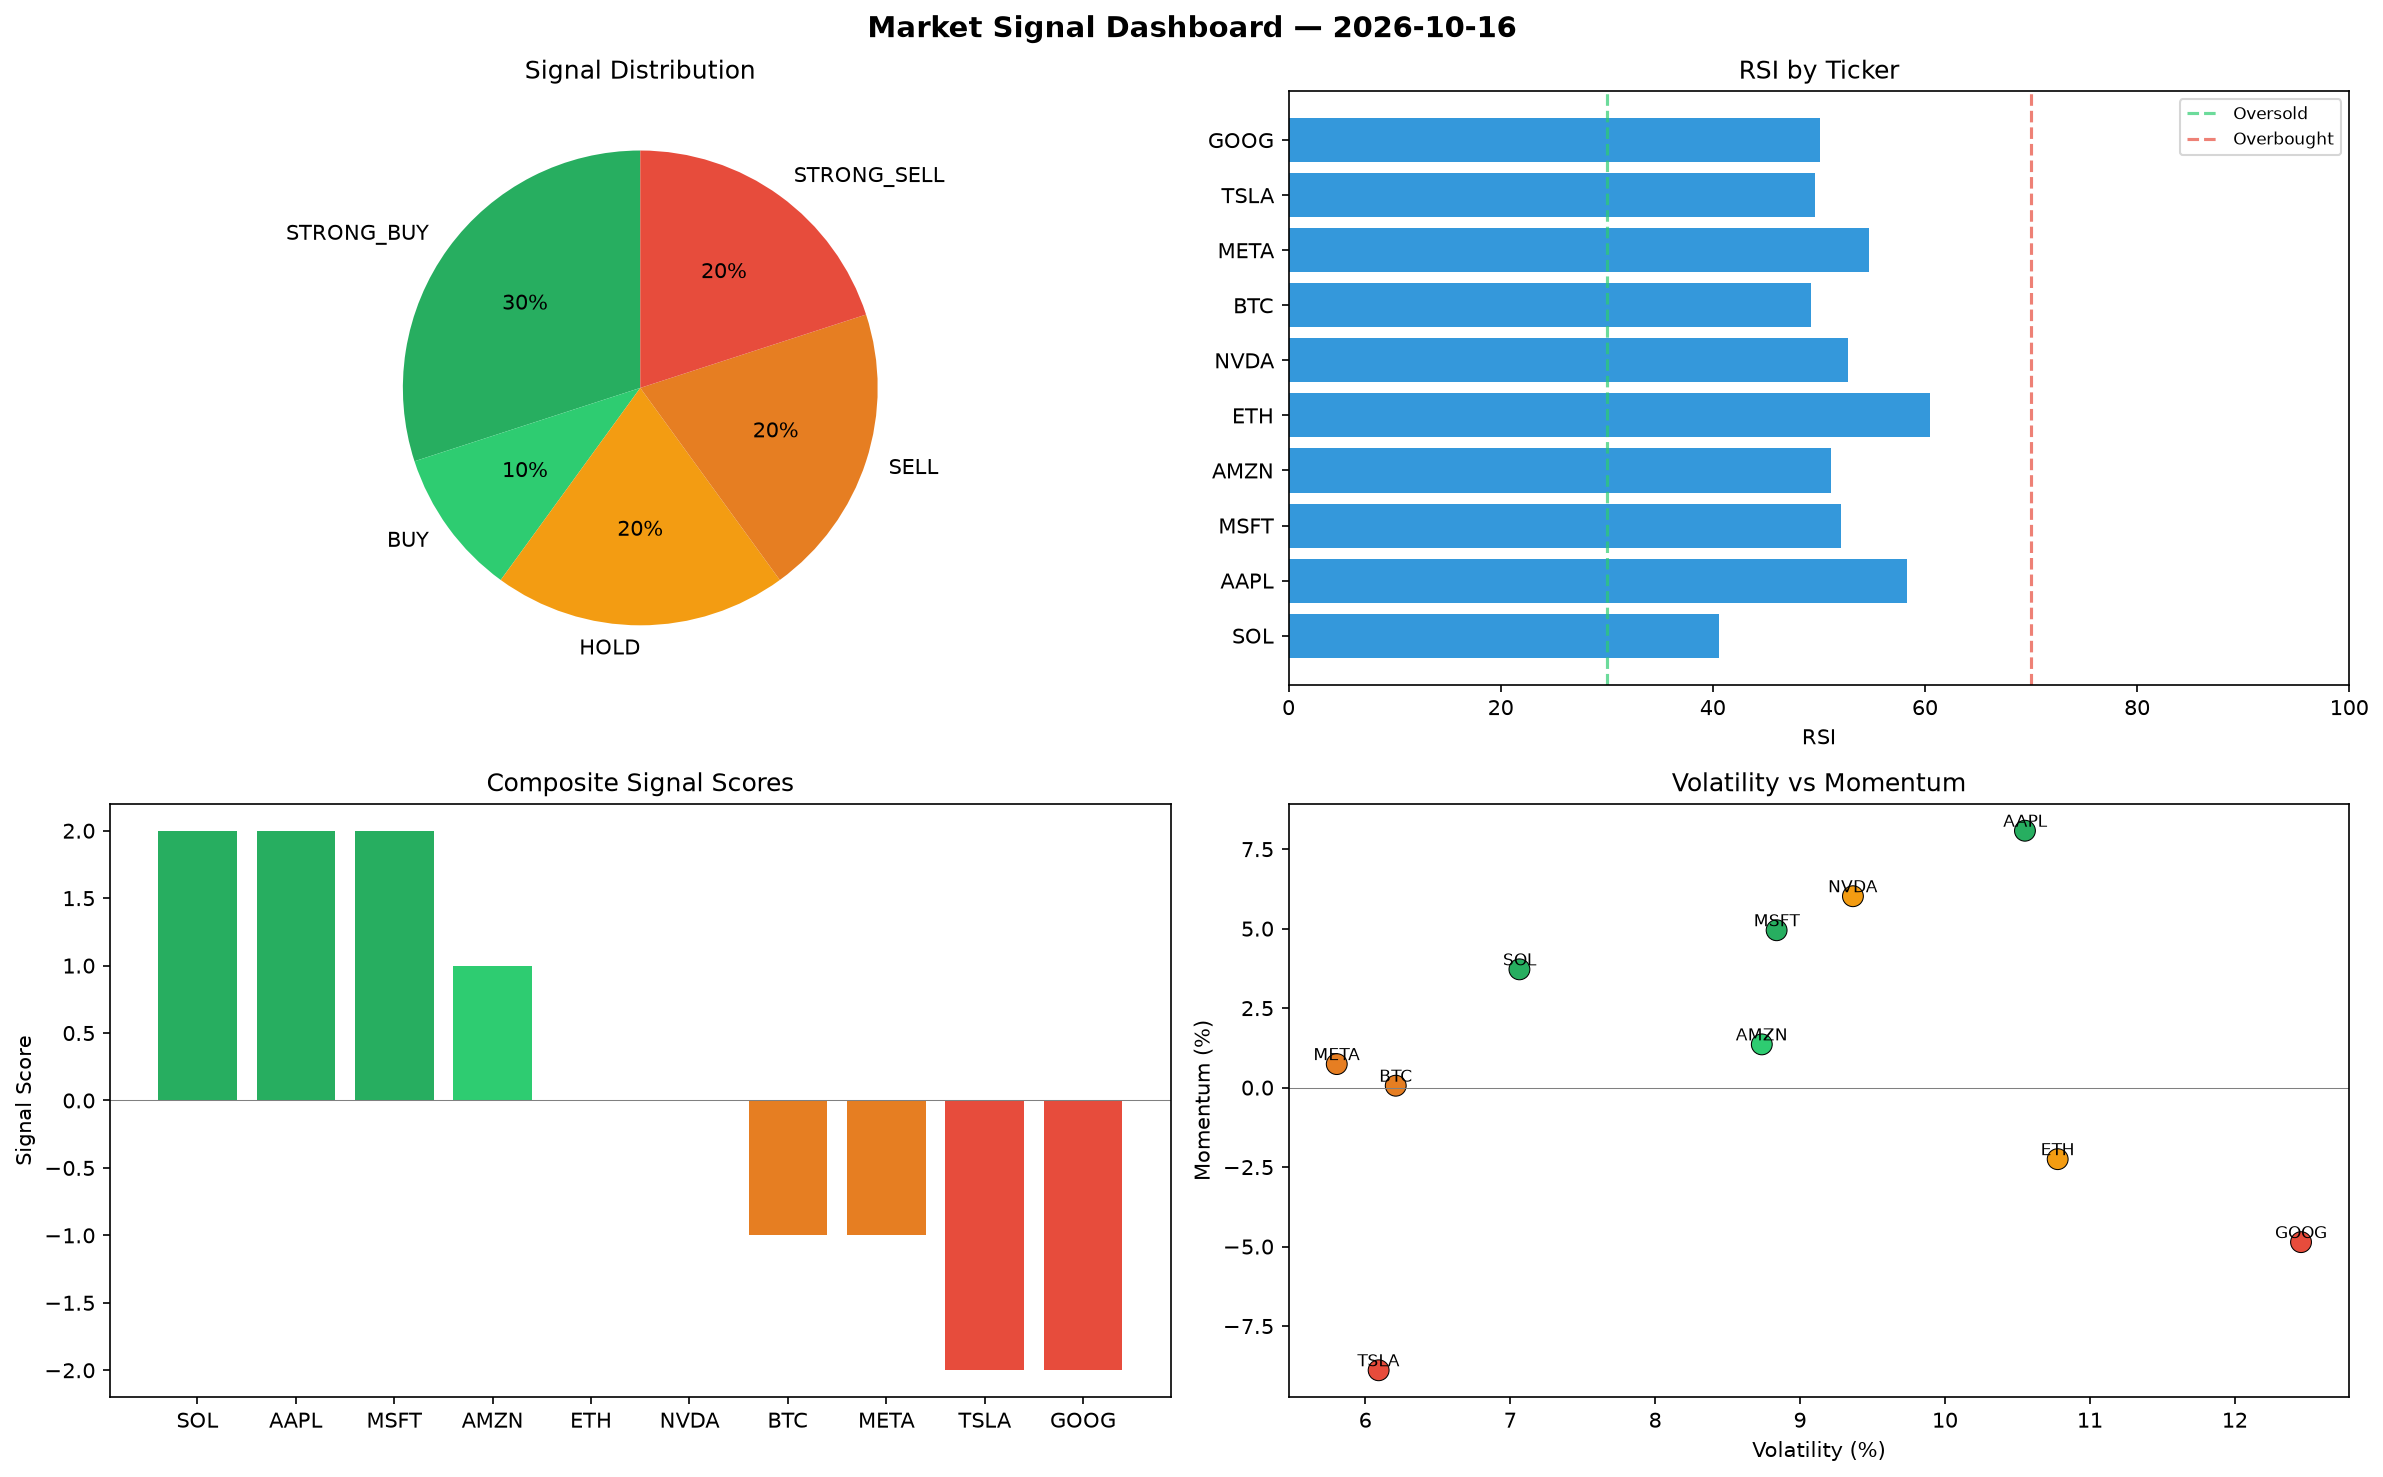
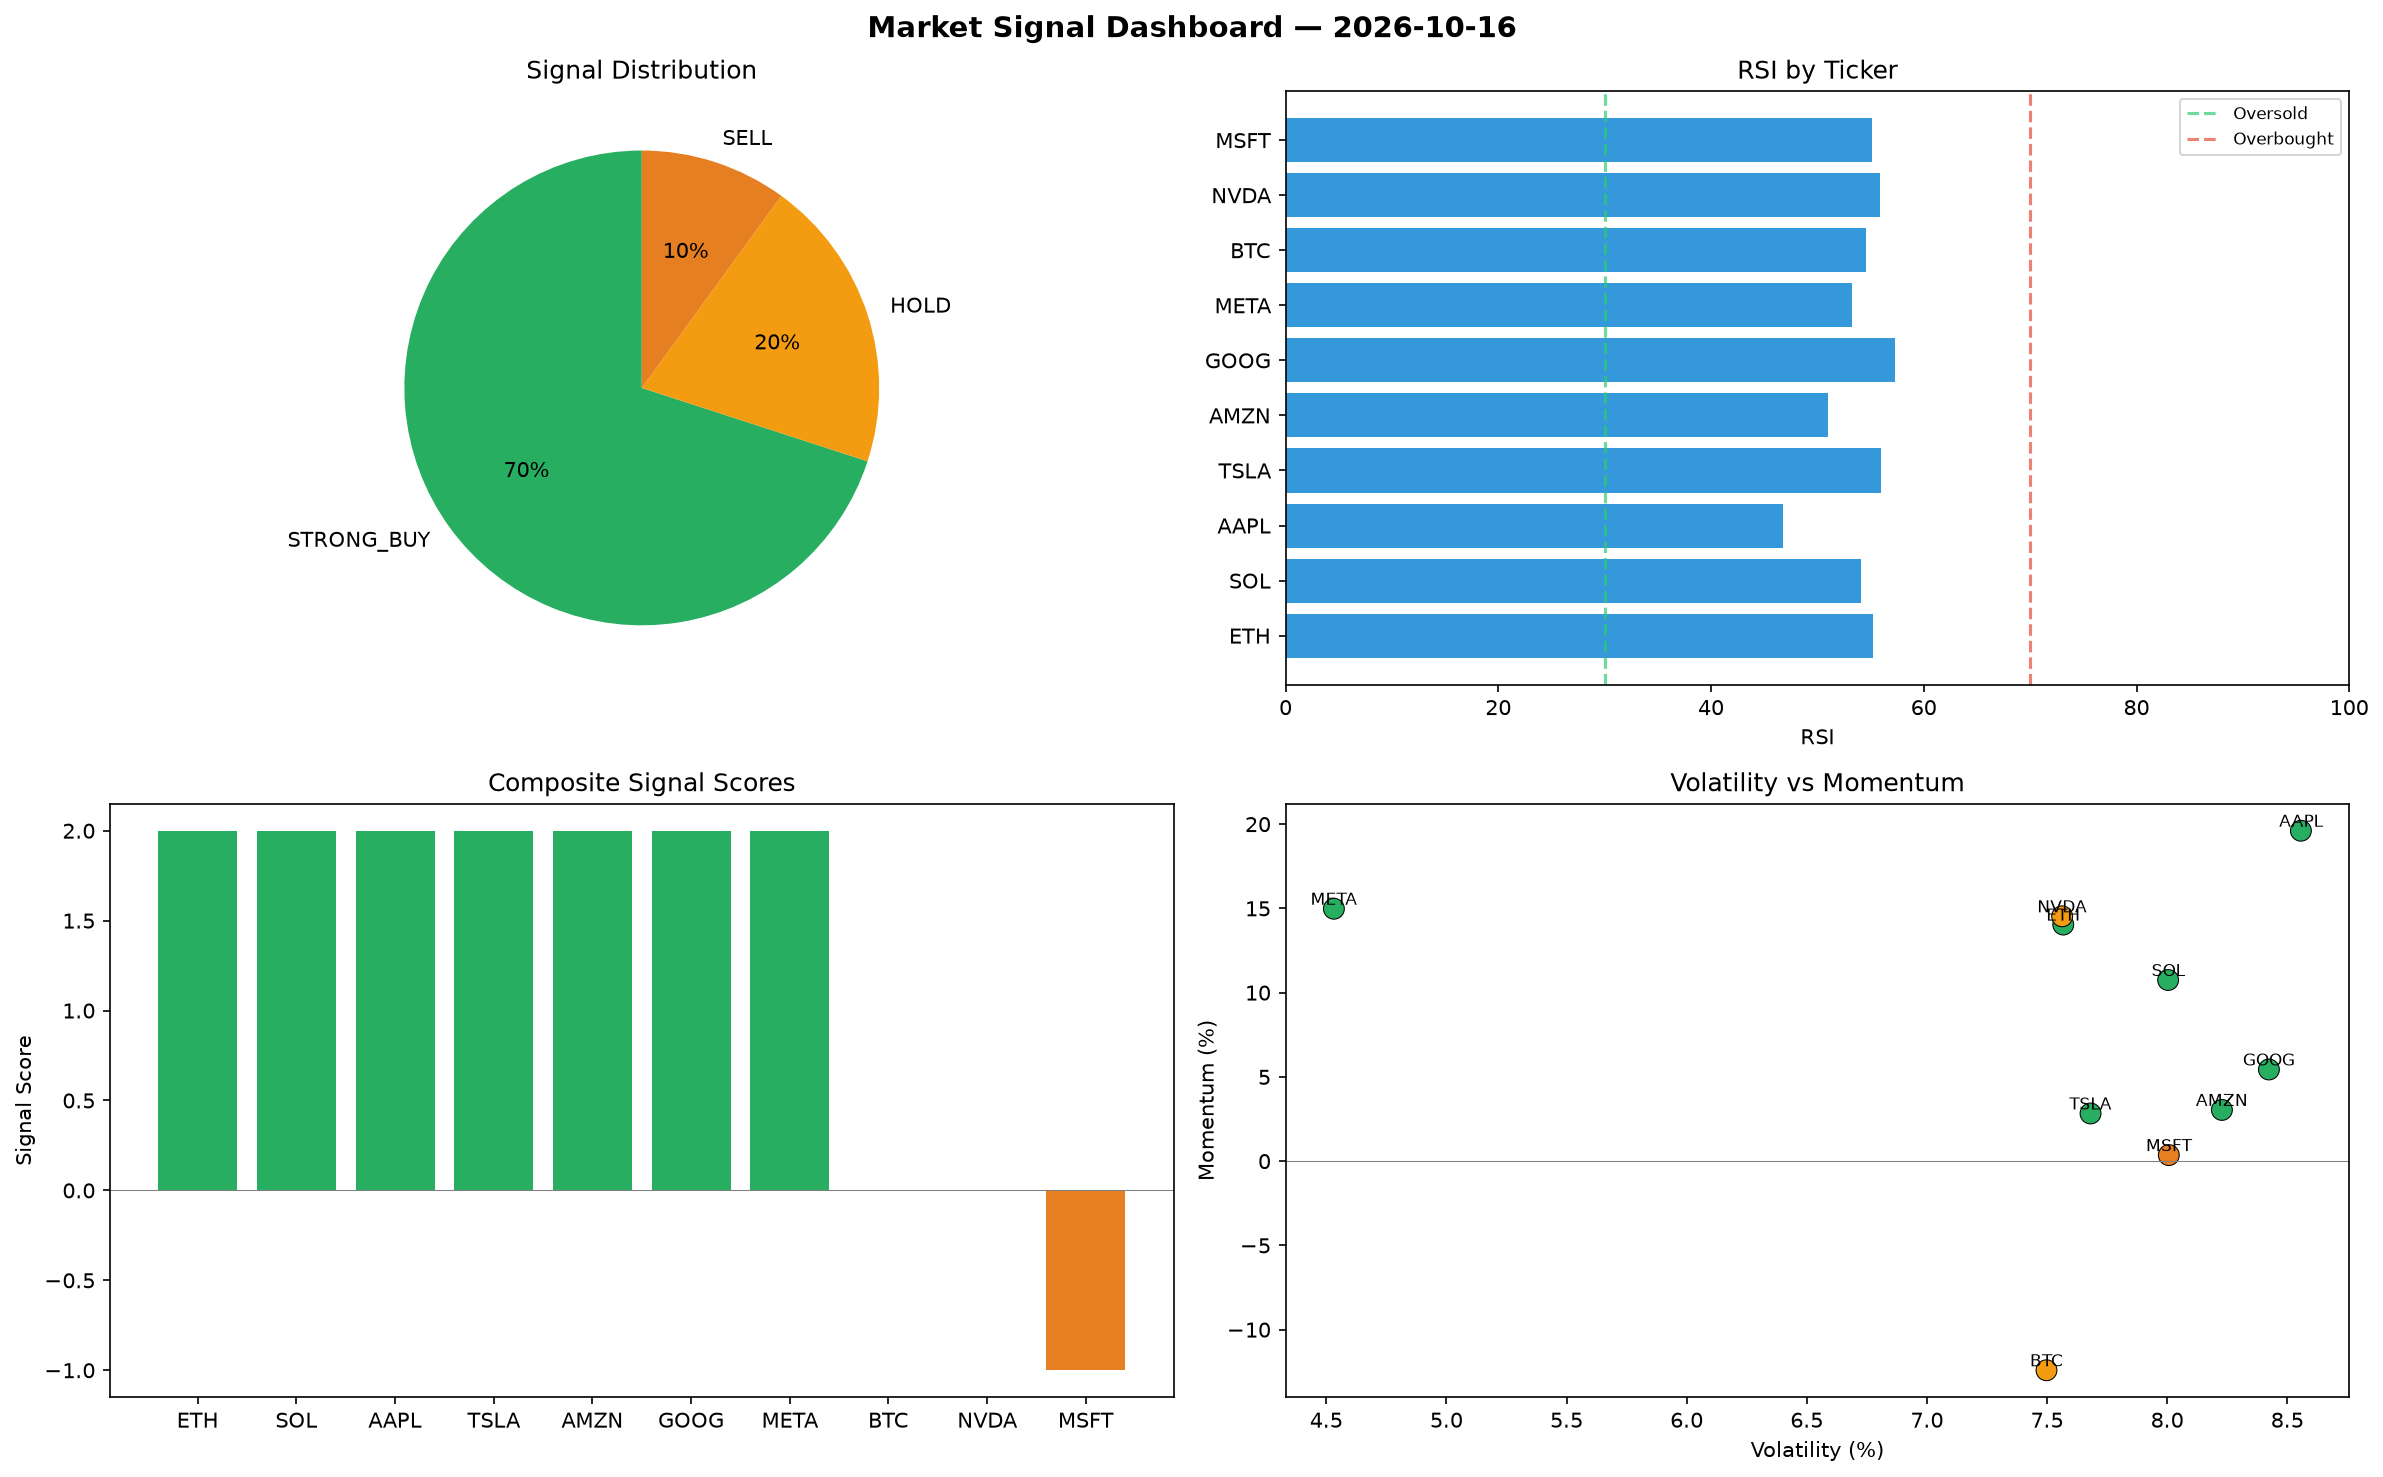
automated-bots: market signals 2026-10-16T13:23

diff --git a/logs/2026-10-16.md b/logs/2026-10-16.md
@@ -1,6 +1,6 @@
 # Market Signal Report — 2026-10-16
 
-**Run ID:** `b9645f4eec` | **Buy:** 4 | **Sell:** 4 | **Hold:** 2
+**Run ID:** `a1b096e7e0` | **Buy:** 7 | **Sell:** 1 | **Hold:** 2
 
 ![Dashboard](2026-10-16_dashboard.png)
 
@@ -8,28 +8,28 @@
 
 | Ticker | Price | Signal | Score | RSI | Momentum | Confidence |
 |--------|-------|--------|-------|-----|----------|------------|
-| SOL | $2485.02 | **STRONG_BUY** | 2 | 40.6 | 0.0372 | 0.5 |
-| AAPL | $3373.64 | **STRONG_BUY** | 2 | 58.35 | 0.0808 | 0.5 |
-| MSFT | $4673.43 | **STRONG_BUY** | 2 | 52.09 | 0.0495 | 0.5 |
-| AMZN | $688.15 | **BUY** | 1 | 51.13 | 0.0136 | 0.25 |
-| ETH | $3746.75 | **HOLD** | 0 | 60.47 | -0.0225 | 0.0 |
-| NVDA | $556.86 | **HOLD** | 0 | 52.77 | 0.0602 | 0.0 |
-| BTC | $2819.91 | **SELL** | -1 | 49.29 | 0.0006 | 0.25 |
-| META | $843.25 | **SELL** | -1 | 54.73 | 0.0074 | 0.25 |
-| TSLA | $3608.6 | **STRONG_SELL** | -2 | 49.63 | -0.0889 | 0.5 |
-| GOOG | $2615.48 | **STRONG_SELL** | -2 | 50.1 | -0.0486 | 0.5 |
+| ETH | $2246.34 | **STRONG_BUY** | 2 | 55.2 | 0.1404 | 0.5 |
+| SOL | $4480.96 | **STRONG_BUY** | 2 | 54.13 | 0.1075 | 0.5 |
+| AAPL | $4409.37 | **STRONG_BUY** | 2 | 46.76 | 0.1961 | 0.5 |
+| TSLA | $1537.88 | **STRONG_BUY** | 2 | 55.96 | 0.0283 | 0.5 |
+| AMZN | $2180.12 | **STRONG_BUY** | 2 | 51.04 | 0.0304 | 0.5 |
+| GOOG | $165.28 | **STRONG_BUY** | 2 | 57.26 | 0.0544 | 0.5 |
+| META | $4717.95 | **STRONG_BUY** | 2 | 53.28 | 0.1498 | 0.5 |
+| BTC | $1002.45 | **HOLD** | 0 | 54.57 | -0.1241 | 0.0 |
+| NVDA | $3624.85 | **HOLD** | 0 | 55.93 | 0.1453 | 0.0 |
+| MSFT | $3992.59 | **SELL** | -1 | 55.13 | 0.0036 | 0.25 |
 
 ## Delta vs Yesterday
 
 | Ticker | Today | Yesterday | Price Change | Signal Changed |
 |--------|-------|-----------|-------------|----------------|
-| SOL | STRONG_BUY | HOLD | 📉 -12.85% | ⚠ YES |
-| AAPL | STRONG_BUY | STRONG_BUY | 📉 -23.78% | — |
-| MSFT | STRONG_BUY | HOLD | 📈 85.98% | ⚠ YES |
-| AMZN | BUY | STRONG_SELL | 📉 -67.97% | ⚠ YES |
-| ETH | HOLD | STRONG_BUY | 📈 2.54% | ⚠ YES |
-| NVDA | HOLD | SELL | 📉 -83.7% | ⚠ YES |
-| BTC | SELL | HOLD | 📉 -44.32% | ⚠ YES |
-| META | SELL | STRONG_BUY | 📈 1758.2% | ⚠ YES |
-| TSLA | STRONG_SELL | STRONG_SELL | 📈 29.33% | — |
-| GOOG | STRONG_SELL | STRONG_SELL | 📈 429.95% | — |
+| ETH | STRONG_BUY | STRONG_BUY | 📉 -38.52% | — |
+| SOL | STRONG_BUY | HOLD | 📈 57.15% | ⚠ YES |
+| AAPL | STRONG_BUY | STRONG_BUY | 📉 -0.38% | — |
+| TSLA | STRONG_BUY | STRONG_SELL | 📉 -44.88% | ⚠ YES |
+| AMZN | STRONG_BUY | STRONG_SELL | 📈 1.47% | ⚠ YES |
+| GOOG | STRONG_BUY | STRONG_SELL | 📉 -66.51% | ⚠ YES |
+| META | STRONG_BUY | STRONG_BUY | 📈 10296.54% | — |
+| BTC | HOLD | HOLD | 📉 -80.21% | — |
+| NVDA | HOLD | SELL | 📈 6.08% | ⚠ YES |
+| MSFT | SELL | HOLD | 📈 58.88% | ⚠ YES |
